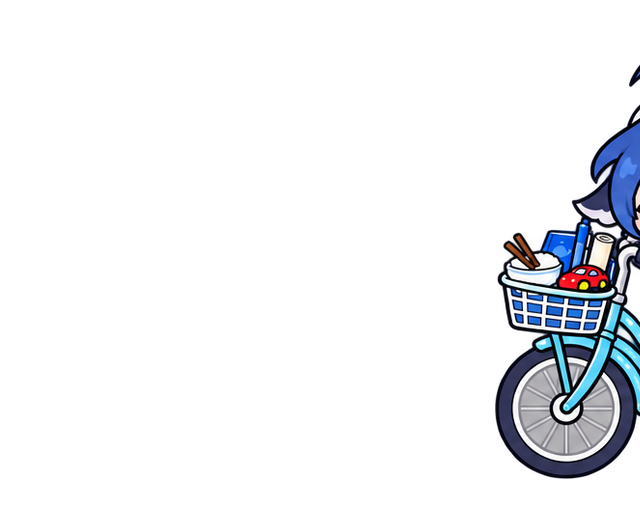
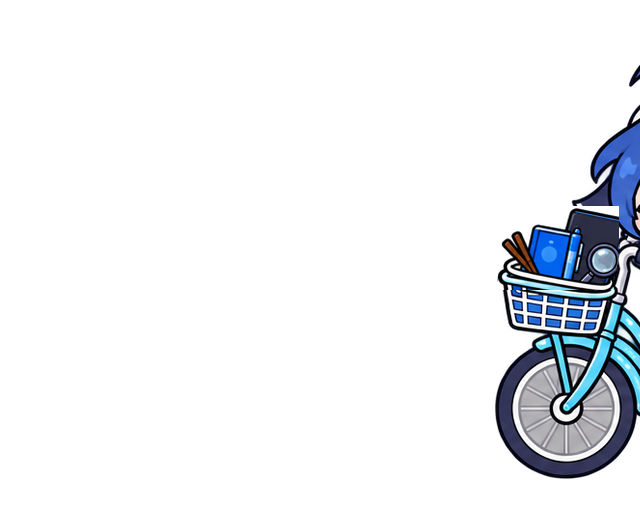
Add four work animations and refresh bicycle basket props

Changed region(s): [[0.7812, 0.375, 0.9688, 0.5938]]

diff --git a/apps/dsl-pet/Sources/main.swift b/apps/dsl-pet/Sources/main.swift
@@ -19,7 +19,14 @@ func selfTest() throws {
     send("user_activity");advance(59);precondition(e.mode=="idle");advance(1.1);precondition(e.mode=="idle-action" && e.idlePass==1 && e.idleTriggerCount==1);let slow=Double(e.animations[e.action]!.durations_ms[0])/1000*1.5;precondition(e.remaining>slow-0.2);advance(11);precondition(e.mode=="idle" && e.idlePass==3 && e.nextIdleInterval==120);advance(105);precondition(e.mode=="idle");advance(15);precondition(e.mode=="idle-action" && e.idleTriggerCount==2);send("user_activity");precondition(e.nextIdleInterval==60 && e.idleTriggerCount==0)
     send("thinking");let duration=Double(e.animations[e.action]!.durations_ms.reduce(0,+))/1000;advance(duration+0.05);precondition(e.terminalPause && e.mode=="working");advance(0.8);precondition(e.terminalPause);send("user_stop");precondition(e.action=="17-stop" && !e.terminalPause)
     for animation in a {send("user_activity");precondition(e.handle(PetEvent(id:animation.key,event:"preview",action:animation.key)));advance(4);precondition(e.holding && e.sourceFrame==animation.frame_count-1)}
-    print("PASS:21 animations; accept1s; correction2s/work/revise; indefinite terminal hold; stop interrupt; bounded interaction queue; 1s loop gaps; 1.5x idle duration/3 repetitions; incremental 60/120s idle/reset; waiting loop; show/hide; validation")
+    for (kind, expected) in [("thinking", Set(["12-think","22-laptop","24-ponder","25-count"])), ("research", Set(["13-research","23-magnifier"])), ("mixed", Set(["12-think","22-laptop","24-ponder","25-count","13-research","23-magnifier"]))] {
+        let worker=PetEngine(a);worker.workingKind=kind
+        var seen=Set<String>();var last=""
+        for ticket in 0..<300 { worker.chooseNumber={n in ticket % n};worker.work();precondition(worker.action != last);seen.insert(worker.action);last=worker.action;worker.tick(13) }
+        precondition(seen==expected)
+    }
+    send("user_activity");precondition(e.handle(PetEvent(id:"glass",event:"preview",action:"23-magnifier")));e.mode="working";e.remaining=0.2;send("tool_search");precondition(e.action=="23-magnifier" && e.remaining==0.2)
+    print("PASS:\(a.count) animations; work pool coverage/no adjacent repeats; research event preserves magnifier; accept1s; correction2s/work/revise; indefinite terminal hold; stop interrupt; bounded interaction queue; 1s loop gaps; 1.5x idle duration/3 repetitions; incremental 60/120s idle/reset; waiting loop; show/hide; validation")
 }
 if CommandLine.arguments.contains("--self-test") {do{try selfTest()}catch{fputs("\(error)\n",stderr);exit(1)}} else {
     let app=NSApplication.shared;app.setActivationPolicy(.accessory)

diff --git a/apps/dsl-pet/Sources/Engine.swift b/apps/dsl-pet/Sources/Engine.swift
@@ -78,7 +78,12 @@ final class PetEngine {
         if corrected { corrected = false; play("16-revise",mode:"completed",after:"hold") }
         else { play(pick([("15-result",70),("01-proud",30)],category:"complete"),mode:"completed",after:"hold") }
     }
-    func work() { let key = workingKind == "research" ? "13-research" : (workingKind == "mixed" ? pick([("12-think",65),("13-research",35)],category:"work") : "12-think"); play(key,mode:"working",after:pendingCompletion ? "finishTask" : "work") }
+    func work() {
+        let thinking = [("12-think",25),("22-laptop",30),("24-ponder",25),("25-count",20)]
+        let research = [("13-research",50),("23-magnifier",50)]
+        let pool = workingKind == "research" ? research : (workingKind == "mixed" ? thinking + research : thinking)
+        play(pick(pool,category:"work"),mode:"working",after:pendingCompletion ? "finishTask" : "work")
+    }
     func interaction() {
         let key = pick([("01-proud",25),("08-spin",15),("19-peek",25),("05-rice",25),("07-idea",8),("10-speechless",2)],category:"interaction")
         play(key,mode:"interaction",after:"interactionHold")
@@ -95,7 +100,7 @@ final class PetEngine {
         case "thinking", "tool_search":
             if e.event == "tool_search" { workingKind = "research" }
             if mode == "accepting" || mode == "apology" { break }
-            if mode == "working", (e.event != "tool_search" || action == "13-research") { break }
+            if mode == "working", (e.event != "tool_search" || ["13-research","23-magnifier"].contains(action)) { break }
             work()
         case "needs_clarification": play("14-question",mode:"waiting",after:"wait")
         case "task_completed":

diff --git a/apps/dsl-pet/Sources/App.swift b/apps/dsl-pet/Sources/App.swift
@@ -158,7 +158,7 @@ final class Controller: NSObject, NSApplicationDelegate, NSWindowDelegate, NSTex
         m.addItem(menuItem("暂停 / 继续",#selector(togglePause)));m.addItem(.separator())
         let size=NSMenuItem(title:"显示大小",action:nil,keyEquivalent:""),sizes=NSMenu()
         for h in [192,256,320,384,512] {sizes.addItem(menuItem("\(h) px 高",#selector(resizePet(_:)),String(h)))};size.submenu=sizes;m.addItem(size)
-        let preview=NSMenuItem(title:"预览全部 21 个动作",action:nil,keyEquivalent:""),actions=NSMenu()
+        let preview=NSMenuItem(title:"预览全部 \(engine?.animations.count ?? 0) 个动作",action:nil,keyEquivalent:""),actions=NSMenu()
         if let engine {for a in engine.animations.values.sorted(by:{$0.key<$1.key}) {actions.addItem(menuItem(a.name,#selector(previewAction(_:)),a.key))}};preview.submenu=actions;m.addItem(preview)
         m.addItem(menuItem("消息与回复",#selector(toggleNotices)));m.addItem(menuItem("控制与状态面板",#selector(showDebug)));m.addItem(menuItem("离场并隐藏",#selector(hidePet)));m.addItem(menuItem("离场并退出",#selector(quitPet)));return m
     }

diff --git a/apps/dsl-pet/scripts/bridge.py b/apps/dsl-pet/scripts/bridge.py
@@ -23,7 +23,7 @@ def send(event,kind=None,action=None,**notice):
  if kind not in [None,'thinking','research','mixed']:raise ValueError('Unknown kind')
  if event=='notify':validate_notice(notice)
  elif notice:raise ValueError('Notice fields require notify event')
- if event=='preview' and action not in [f'{i:02d}-{n}' for i,n in enumerate(['proud','unhappy','apology','toy-car','rice','yawn','idea','spin','dizzy','speechless','accept','think','research','question','result','revise','stop','doze','peek','bicycle','bicycle-exit'],1)]:raise ValueError('Unknown action')
+ if event=='preview' and action not in [f'{i:02d}-{n}' for i,n in enumerate(['proud','unhappy','apology','toy-car','rice','yawn','idea','spin','dizzy','speechless','accept','think','research','question','result','revise','stop','doze','peek','bicycle','bicycle-exit','laptop','magnifier','ponder','count'],1)]:raise ValueError('Unknown action')
  ensure();commands=BASE/'commands';commands.mkdir(parents=True,exist_ok=True,mode=0o700)
  ident=uuid.uuid4().hex;name=f'{time.time_ns():020d}-{ident}.json';payload={'id':ident,'event':event}
  if kind:payload['kind']=kind

diff --git a/apps/dsl-pet/scripts/build.py b/apps/dsl-pet/scripts/build.py
@@ -13,7 +13,7 @@ for a in manifest:
 for n in ['animations.json','待机.png']:shutil.copy2(assets/n,res/'assets'/n)
 shutil.copy2(root/'scripts/bridge.py',res/'bridge.py')
 shutil.copy2(root/'scripts/reply.py',res/'reply.py')
-info={'CFBundleExecutable':'DSLPet','CFBundleIdentifier':'local.chennuo.dsl-pet','CFBundleName':'小 DSL','CFBundleDisplayName':'小 DSL 悬浮桌宠','CFBundleVersion':'8','CFBundleShortVersionString':'0.3.1','CFBundlePackageType':'APPL','LSUIElement':True,'NSHighResolutionCapable':True,'LSMinimumSystemVersion':'13.0'}
+info={'CFBundleExecutable':'DSLPet','CFBundleIdentifier':'local.chennuo.dsl-pet','CFBundleName':'小 DSL','CFBundleDisplayName':'小 DSL 悬浮桌宠','CFBundleVersion':'9','CFBundleShortVersionString':'0.4.0','CFBundlePackageType':'APPL','LSUIElement':True,'NSHighResolutionCapable':True,'LSMinimumSystemVersion':'13.0'}
 with (app/'Contents/Info.plist').open('wb') as f:plistlib.dump(info,f)
 subprocess.run(['/usr/bin/codesign','--force','--sign','-',str(app)],check=True)
 subprocess.run([str(mac/'DSLPet'),'--self-test',str(res/'assets/animations.json')],check=True)

diff --git a/apps/dsl-pet/STATE_RULES.md b/apps/dsl-pet/STATE_RULES.md
@@ -1,4 +1,4 @@
-# 当前动画规则（0.2.2）
+# 当前动画规则（0.4.0）
 
 根据 Sources/Engine.swift 和素材 animations.json 核对。下列秒数为素材单轮时长，实际播放受定时器刷新影响。
 
@@ -6,9 +6,9 @@
 |---|---|---|
 | 默认待机 | 静态待机图 | 保持默认姿势；到空闲触发时间再选动作 |
 | 接到任务 | 点头接单 | 一次1.54秒，终帧停1秒，再进入工作 |
-| 思考工作模式 | 仔细思考 | 每轮1.62秒，终帧停1秒，继续循环 |
-| 研究工作模式 | 翻书查资料 | 每轮1.50秒，终帧停1秒，继续循环 |
-| 混合工作模式 | 仔细思考 / 翻书查资料 | 候选权重65:35；避免连续选同动作，因此持续循环实际交替；每轮之间停1秒 |
+| 思考工作模式 | 仔细思考 / 敲电脑 / 拿本子认真推敲 / 掰手指数数 | 候选权重25:30:25:20；原思考1.62秒，新动作2.10秒；轮间停1秒，避免连续同动作 |
+| 研究工作模式 | 翻书查资料 / 放大镜查资料 | 候选权重50:50；1.50/2.10秒；轮间停1秒，避免连续同动作 |
+| 混合工作模式 | 上述六组工作动作 | 合并两组候选权重；避免连续同动作，每轮之间停1秒 |
 | 需要用户输入 | 举手提问 | 每轮1.60秒，终帧停1秒，继续循环 |
 | 完成任务 | 展示成果 / 叉腰傲娇 | 候选权重70:30；选一个播放一次（1.65/1.30秒），无限保持终帧 |
 | 收到纠正 | 道歉 → 工作 → 认真修改 | 道歉一次1.62秒，终帧停2秒，然后工作；收到完成事件后认真修改一次1.64秒，无限保持终帧 |
@@ -19,7 +19,7 @@
 | 出场 | 骑着小单车出场 | 一次1.92秒，然后默认待机 |
 | 隐藏 / 退出 | 收拾东西推单车离场 | 一次2.07秒，然后隐藏或退出 |
 | 暂停 / 继续 | 当前动作 | 暂停冻结当前帧和计时；继续从原处恢复 |
-| 手动预览 | 全部21动作 | 正常速度播放一次，保持终帧；不开心和坐地头晕目前只有手动预览入口 |
+| 手动预览 | 全部25动作 | 正常速度播放一次，保持终帧；不开心和坐地头晕目前只有手动预览入口 |
 
 空闲首次等60秒；每组动作结束后分别等120、180、240秒，以此类推。点击桌宠、空闲时拖动或新任务/用户活动等插件信号重置计时。完成/停止终帧保持不会被空闲动作覆盖。计时依据桌宠及插件事件，未监听其他应用的全部键鼠操作。
 
@@ -34,3 +34,5 @@
 接单/道歉期间若已收到完成信号，先遵守终帧停留，再播放一轮工作后展示完成动作。工作中的完成、需要输入或停止事件可打断当前循环。
 
 通知、铃铛、气泡本身不驱动动画，插件需另外发送相应状态事件。铃铛位于脑袋右上方；全部已读后隐藏。
+
+认真推敲与数数共用第1、2、5、6帧。重复的查资料事件不会重启动正在播放的放大镜动作。自行车篮中的筷子保留，电脑和放大镜随原自行车动画移动。

diff --git a/apps/dsl-pet/README.md b/apps/dsl-pet/README.md
@@ -12,7 +12,7 @@ python3 apps/dsl-pet/scripts/build.py
 
 脚本使用系统 Swift 编译器构建原生 AppKit 应用，读取本目录独立的 `assets/`，复制控制桥和回复桥，生成 `dist/DSLPet.app` 并进行 ad-hoc 签名，最后运行内置状态机自检。
 
-当前应用版本 0.3.1，Bundle Build 8。已验证 macOS Apple Silicon，最低系统版本 macOS 13。无图片生成服务或 OpenCV 运行依赖。
+当前应用版本 0.4.0，Bundle Build 9。已验证 macOS Apple Silicon，最低系统版本 macOS 13。无图片生成服务或 OpenCV 运行依赖。
 
 ## 源码结构
 
@@ -28,7 +28,7 @@ python3 apps/dsl-pet/scripts/build.py
 
 ## 验证
 
-构建自检覆盖全部 21 组动画，以及接单 1 秒停留、纠正 2 秒停留、停止中断、完成无限保持、互动队列、循环 1 秒间隔、空闲 1.5 倍慢放 / 3 次重复与递增计时。
+构建自检覆盖全部 25 组动画，以及接单 1 秒停留、纠正 2 秒停留、停止中断、完成无限保持、互动队列、循环 1 秒间隔、空闲 1.5 倍慢放 / 3 次重复与递增计时。
 
 本机此前完成过原生播放器、气泡分页、缩放、双击激活和回复输入界面检查。回复传输通过本地协议检查及真实 owner 的只读发现；完整真实模型回复流程尚待实际使用验证。
 
@@ -36,7 +36,9 @@ python3 apps/dsl-pet/scripts/build.py
 
 ## 素材
 
-133 张 PNG：132 张动画帧和 1 张待机图，另有 22 个时序 / 索引 JSON。围裙 Logo 通过局部像素替换完成，其中 108 张有可见图案并修改，25 张因遮挡、背面或位于画外保留原图。尺寸、alpha 及 JSON 时序保持不变。
+157 张 PNG：156 张动画帧和 1 张待机图，另有 26 个时序 / 索引 JSON。素材独立存放于本项目，不依赖原素材仓库。
+
+0.4.0 新增敲电脑、放大镜查资料、拿本子认真推敲、掰手指数数。后两组共用第 1、2、5、6 帧，只替换中间两帧；新动作每轮 2.10 秒，轮间沿用 1 秒停留。自行车篮去掉大饭碗，保留筷子，并加入电脑和放大镜；原出入场的移动、终帧和时序保持。
 
 素材权利独立于代码的 MIT 许可，见 [素材权利声明](../../ASSET_RIGHTS.md)。
 

diff --git a/README.en.md b/README.en.md
@@ -6,7 +6,7 @@
 
 Big Fat Fish has come to work in your Codex to earn a bowl of rice. Wearing a GPT apron with the ChatGPT logo, it is ready to be your desktop coworker. It takes its tasks seriously—and keeps an eye on lunchtime. It thinks, reads, presents its work, and occasionally strikes a proud pose. Between tasks, it plays with a toy car, eats, or lets a little black bird fly overhead.
 
-![Big Fat Fish's 21 animations](docs/previews/all-actions.jpg)
+![Big Fat Fish's 25 animations](docs/previews/all-actions.jpg)
 
 ## What it does
 
@@ -14,7 +14,7 @@ Big Fat Fish has come to work in your Codex to earn a bowl of rice. Wearing a GP
 - **Lives on your desktop**: floats above ordinary windows, with dragging, resizing, and an option to hide it whenever you like.
 - **Brings messages closer**: a small bell signals unread messages, and reply summaries appear in white thought bubbles with blue outlines.
 - **Helps you continue the conversation**: open a reply composer from the bubble, or double-click the pet to return to Codex.
-- **Has a life between tasks**: eating, toy cars, peeking, yawning, and more—21 animations in total.
+- **Has a life between tasks**: eating, toy cars, peeking, yawning, and more—25 animations in total.
 
 ## Ask Codex to install it
 

diff --git a/README.md b/README.md
@@ -6,7 +6,7 @@
 
 大肥鱼来到你的 Codex 打工赚大白饭，穿上印着 ChatGPT Logo 的 GPT 围裙，正式成为你的桌面同事。它认真接单，也惦记着开饭：工作时思考、翻书，完成后展示成果，偶尔还会叉腰傲娇。等待你的时候，就玩玩具车、吃吃饭，或者让一只黑鸟飞过头顶。
 
-![大肥鱼的 21 个动作](docs/previews/all-actions.jpg)
+![大肥鱼的 25 个动作](docs/previews/all-actions.jpg)
 
 ## 它能做什么
 
@@ -14,7 +14,7 @@
 - **住在桌面上**：悬浮在其他普通窗口上方，可以拖动、调整大小，也可以随时隐藏。
 - **把消息送到身边**：未读消息用小铃铛提醒，回复摘要显示在白底蓝边的思考气泡里。
 - **方便继续对话**：通过气泡打开回复输入框，或双击桌宠回到 Codex。
-- **闲下来也有小动作**：吃饭、玩具车、探头、打哈欠……共 21 组动画。
+- **闲下来也有小动作**：吃饭、玩具车、探头、打哈欠……共 25 组动画。
 
 ## 用一句话让 Codex 安装
 
